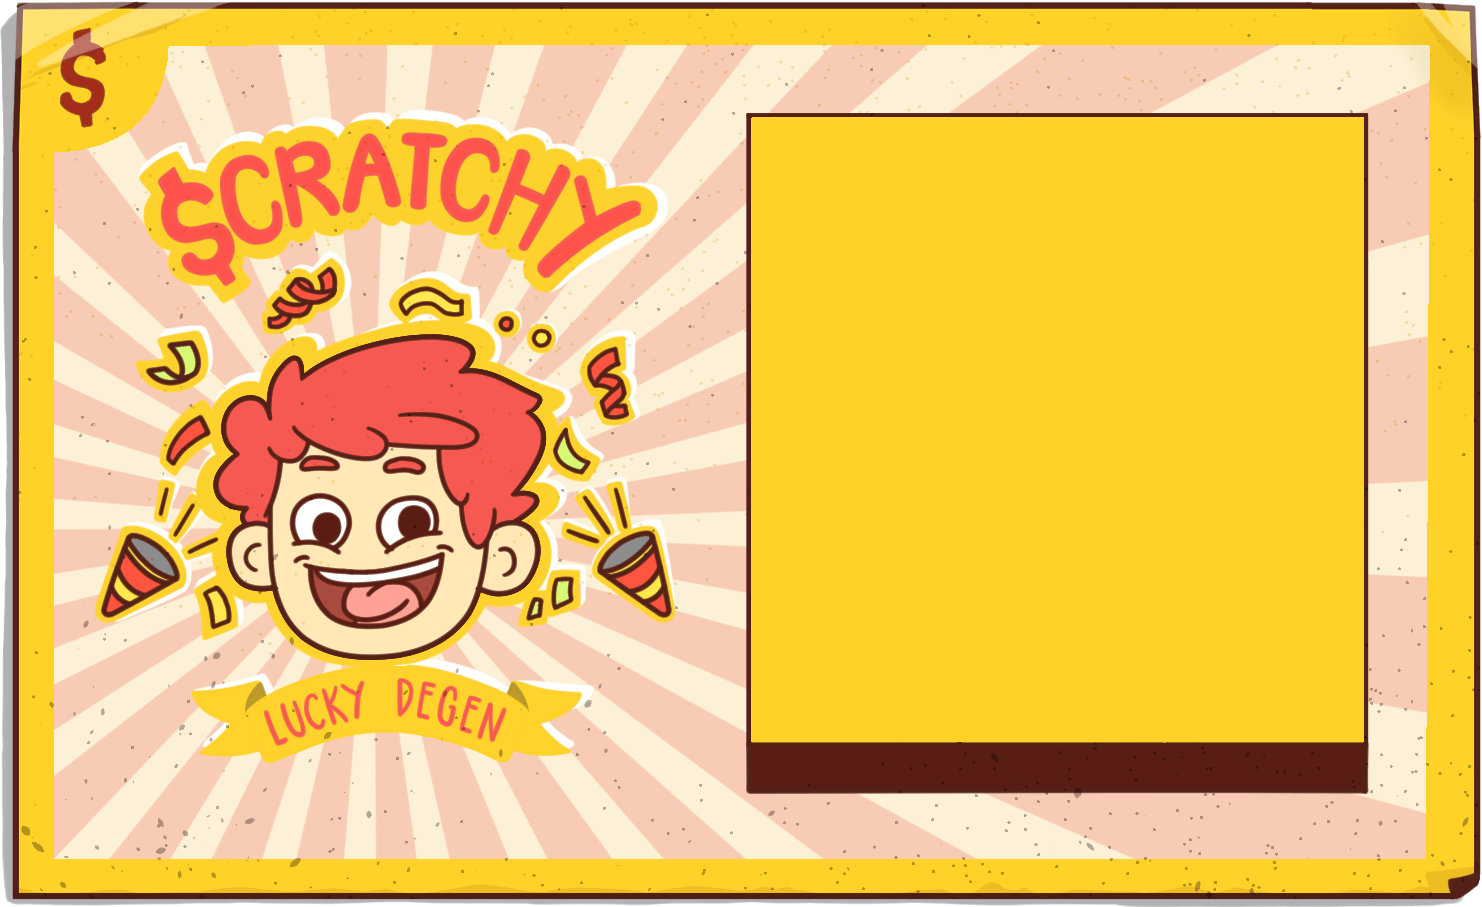
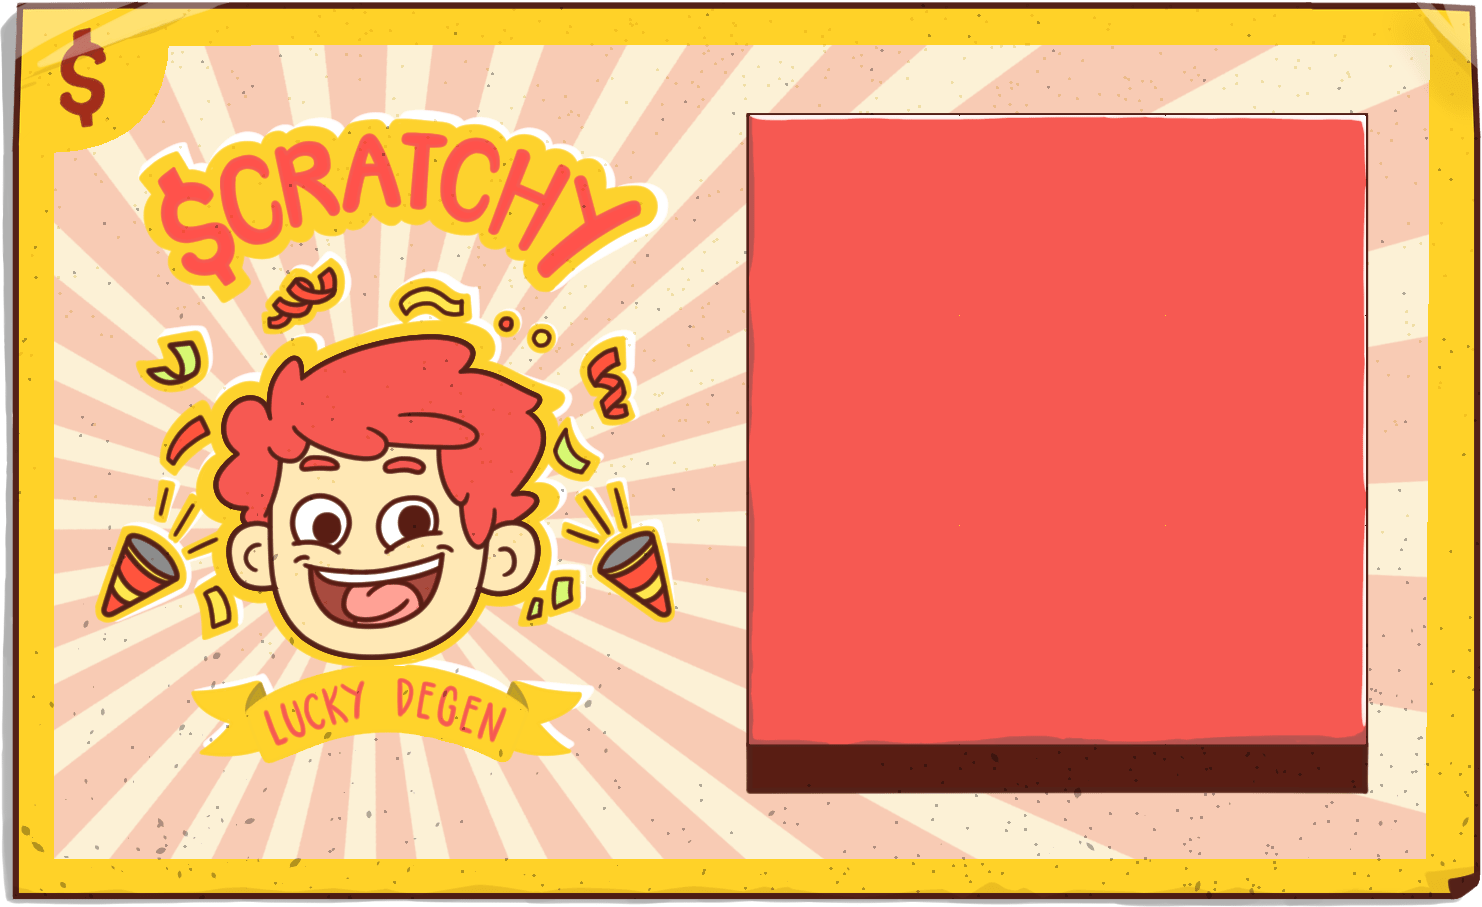
Activate mint

Changed region(s): [[0.4966, 0.1235, 0.9312, 0.8335], [0.0, 0.9879, 0.9312, 1.0], [0.9622, 0.9879, 0.9933, 1.0]]

diff --git a/src/frontend/components/Mint.js b/src/frontend/components/Mint.js
@@ -33,7 +33,7 @@ const Mint = ({ account, nft, web3Handler, balance, setMenu }) => {
             </div>
             {submenu == 1 ? (
                 <MintCard account={account} web3Handler={web3Handler} nft={nft} balance={balance} setMenu={setMenu}
-                    cardClass="scratchyCardGenesis" mintActivated={false}
+                    cardClass="scratchyCardGenesis" mintActivated={true}
                     infoPrice="FREE MINT (2 PER WALLET)" infoDate="21 JANUARY 2023" infoTime="12PM UTC"
                     infoTotal="10,000 CARDS" infoNetwork="ETHEREUM" infoWhitelist="NO / FCFS" infoUtility="PROOF OF SCRATCH"
                     infoPrize="FREE MINT SPOT FOR SEASONAL SCRATCHY CARD"
